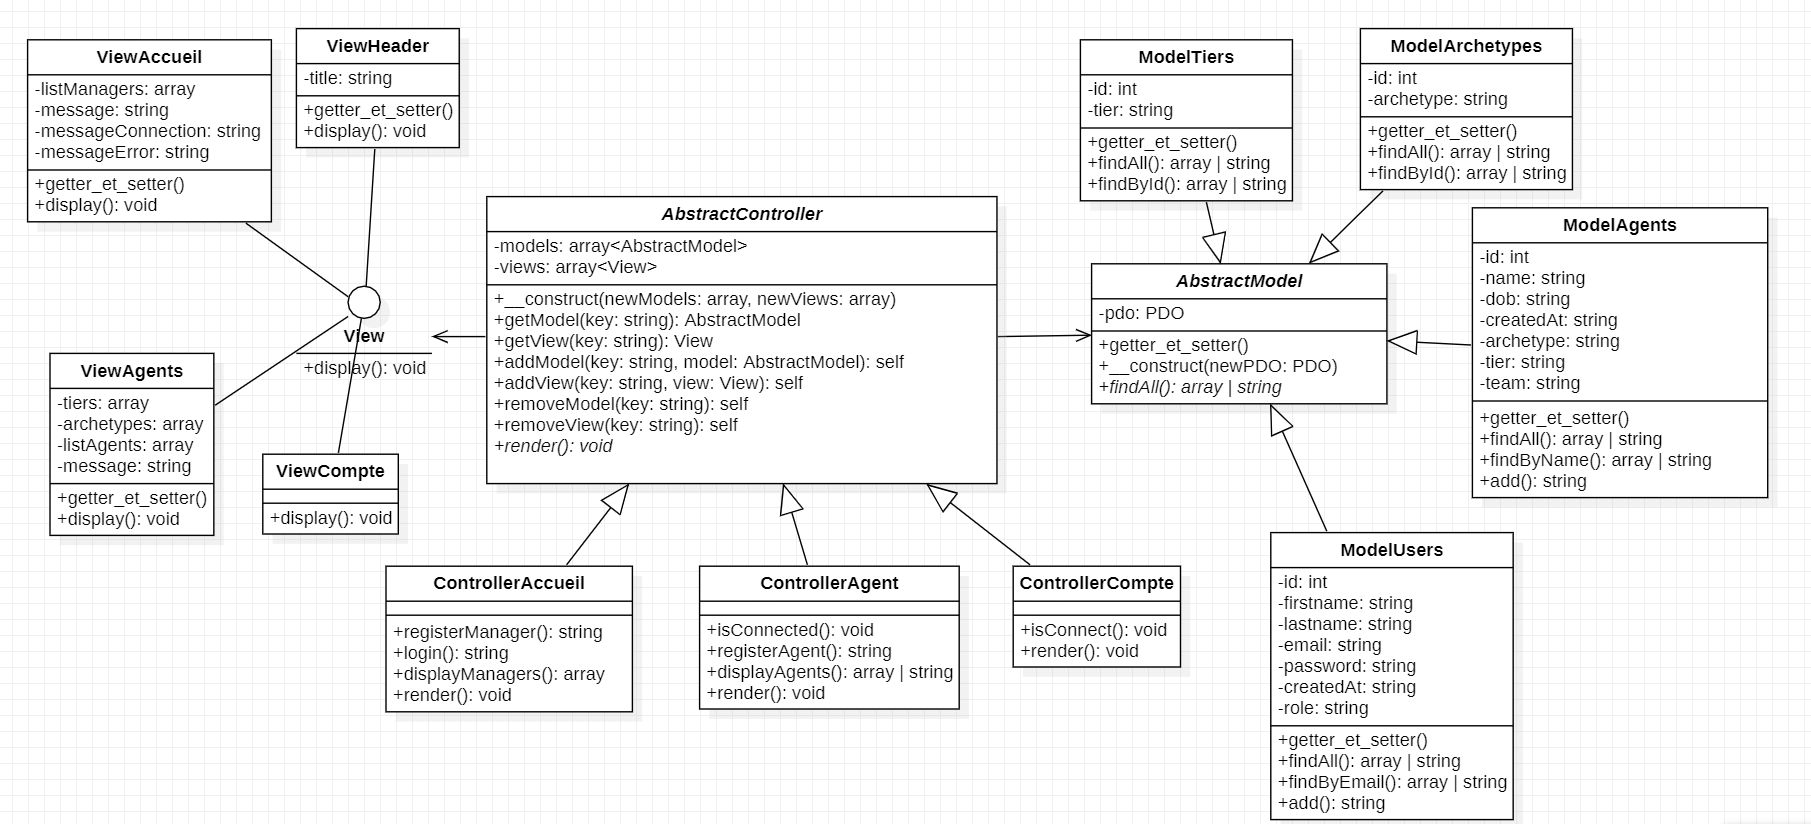
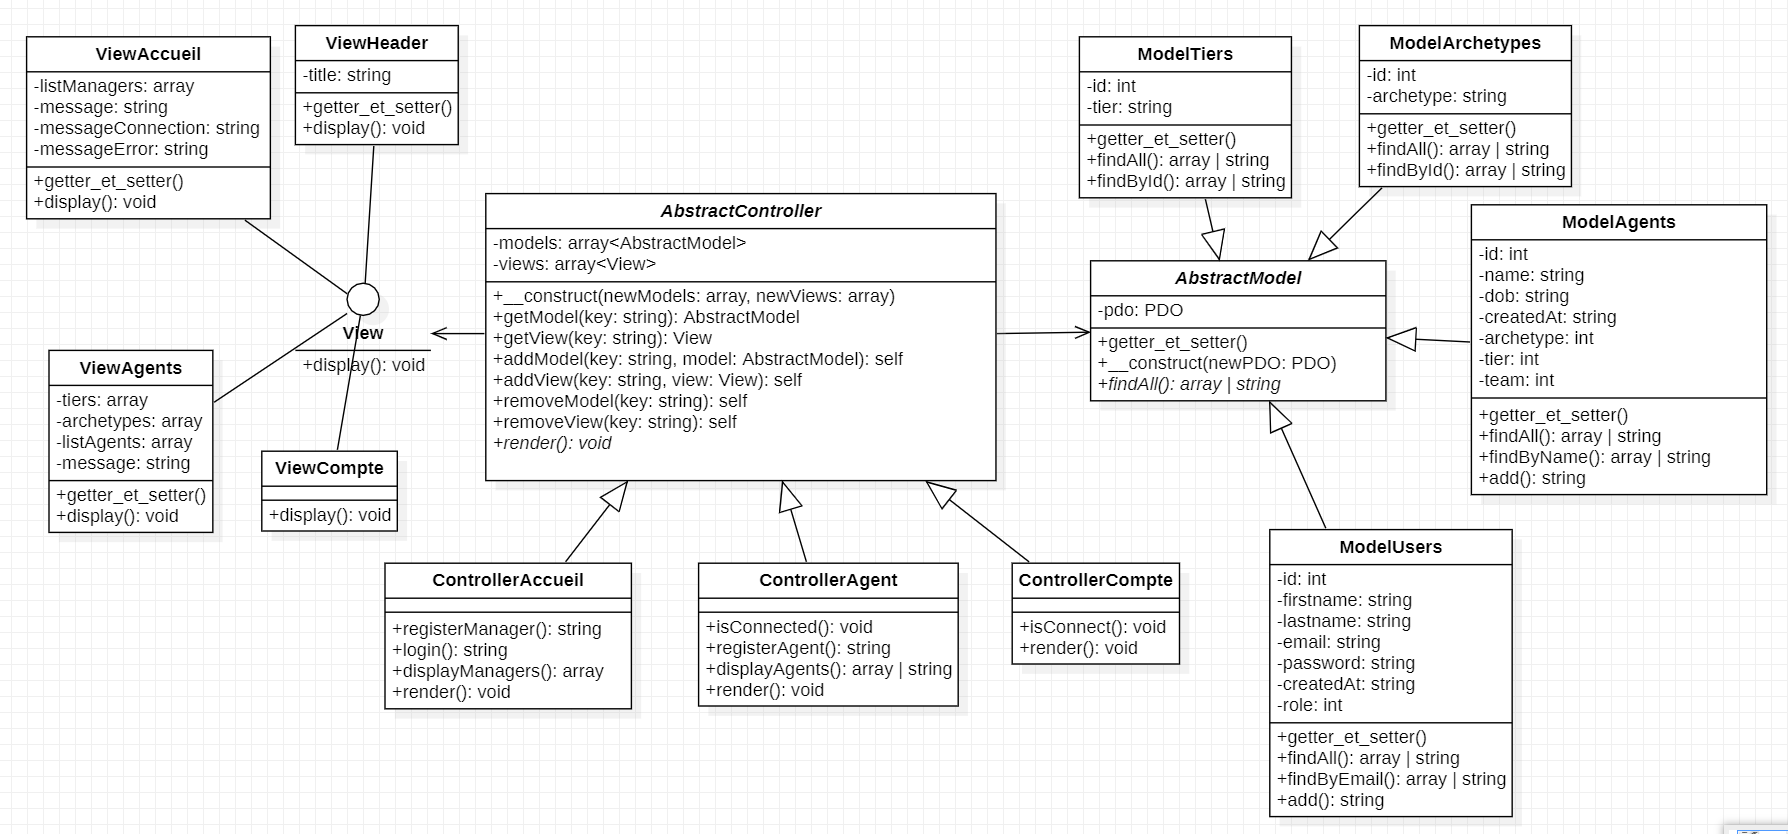
[Correction]correction du diagramme de classe et de ModelUsers et ModelAgents

diff --git a/model/ModelAgents.php b/model/ModelAgents.php
@@ -5,9 +5,9 @@ class ModelAgents extends AbstractModel{
     private string $name;
     private string $dob;
     private string $createdAt;
-    private string $tier;
-    private string $archetype;
-    private string $team;
+    private int $tier;
+    private int $archetype;
+    private int $team;
 
     //CONSTRUCTEUR
 

diff --git a/model/ModelUsers.php b/model/ModelUsers.php
@@ -7,7 +7,7 @@ class ModelUsers extends AbstractModel{
     private string $email;
     private string $password;
     private string $createdAt;
-    private string $role;
+    private int $role;
 
     //CONSTRUCTEUR
 
